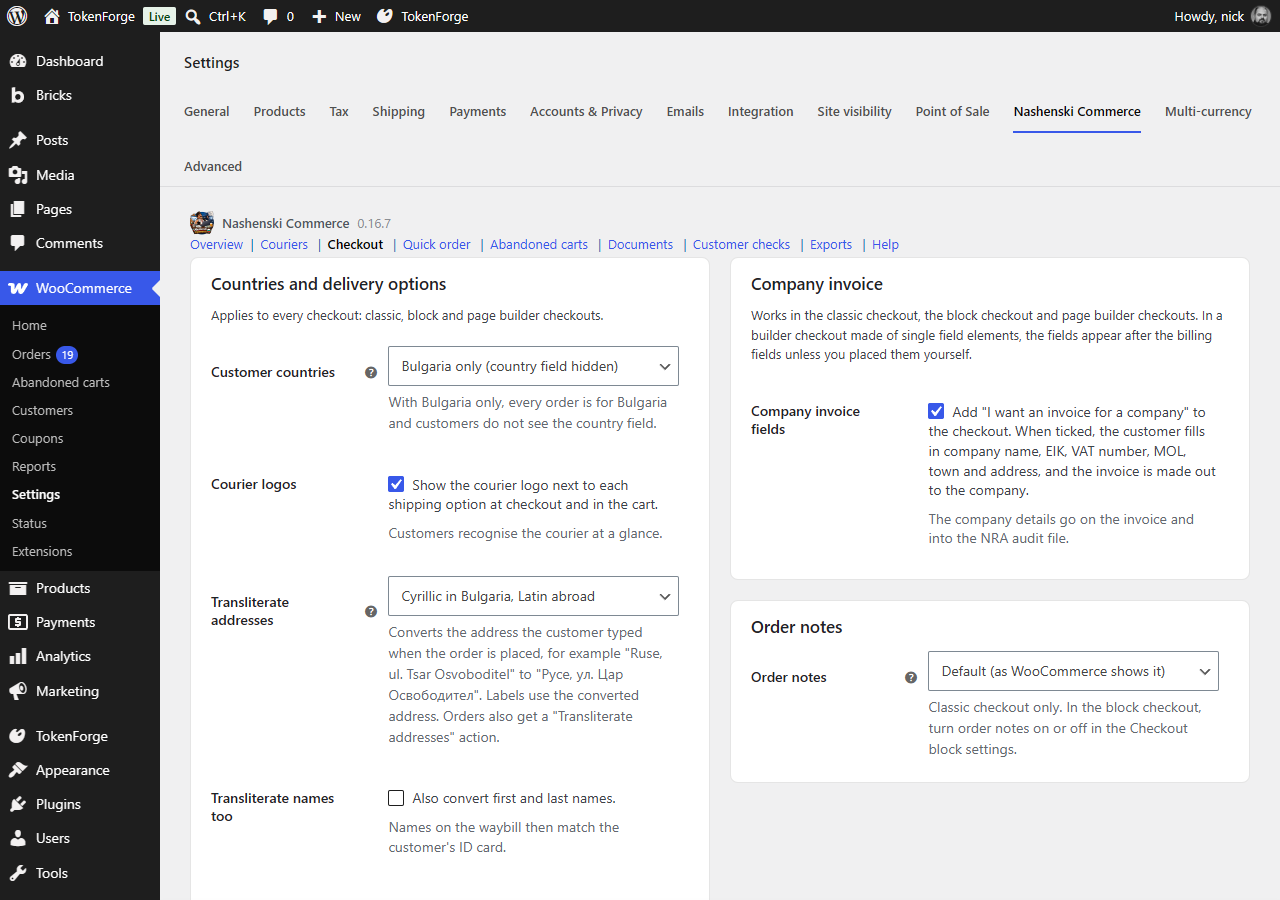
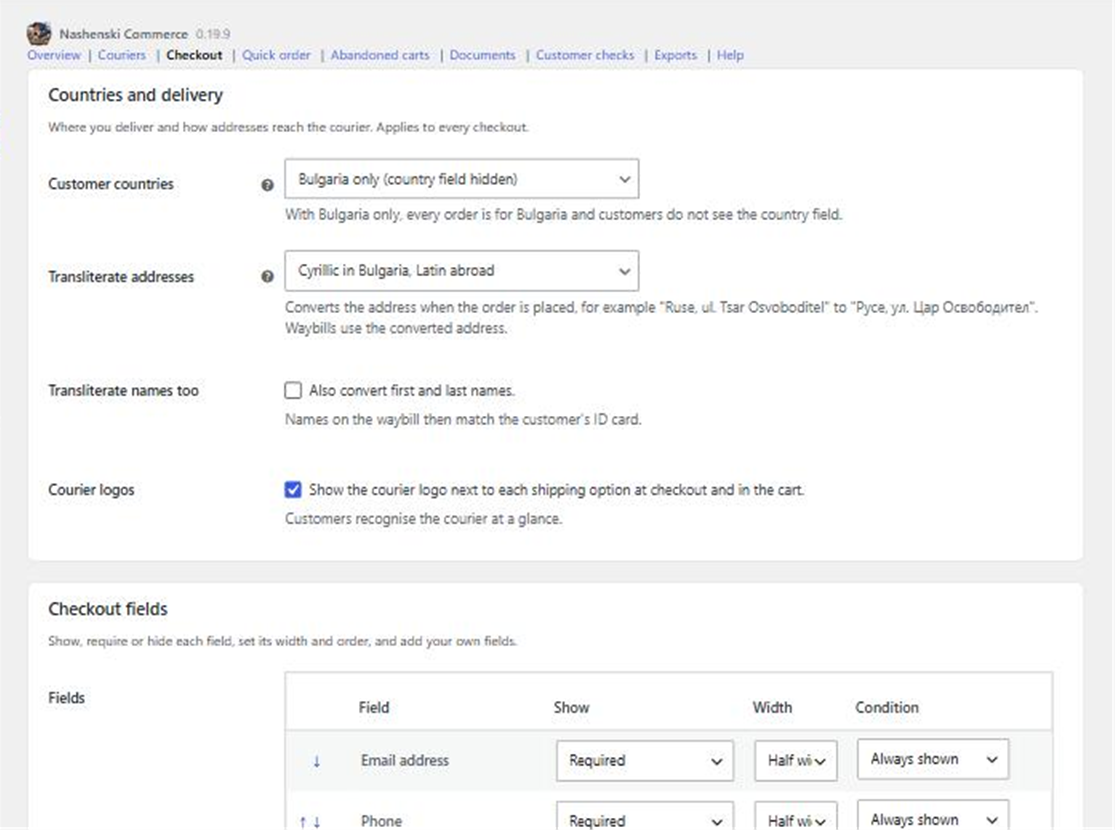
Manual: Bulgarian 113(9) text and screenshots at 0.19.9

diff --git a/manual/index.html b/manual/index.html
@@ -1985,9 +1985,9 @@ section{padding:20px 16px}
 				<td>text</td>
 				<td><span class="muted">empty</span></td>
 			</tr>
-			<tr data-search-en="nap_vat_113_9 company registered under article 113(9) of the bulgarian vat act enable for a company that is not registered for vat: invoices carry the note about article 113(9) and show no vat. works while woocommerce taxes are off.">
+			<tr data-search-en="nap_vat_113_9 company registered under article 113(9) of the bulgarian vat act enable for a company that is not registered for vat: invoices carry the note about article 113(9), and invoices, proformas and credit notes show no vat. works while woocommerce taxes are off.">
 				<td><code>nap_vat_113_9</code></td>
-				<td><strong>Company registered under Article 113(9) of the Bulgarian VAT Act</strong><div class="desc">Enable</div><div class="desc">For a company that is not registered for VAT: invoices carry the note about Article 113(9) and show no VAT. Works while WooCommerce taxes are off.</div></td>
+				<td><strong>Company registered under Article 113(9) of the Bulgarian VAT Act</strong><div class="desc">Enable</div><div class="desc">For a company that is not registered for VAT: invoices carry the note about Article 113(9), and invoices, proformas and credit notes show no VAT. Works while WooCommerce taxes are off.</div></td>
 				<td>yes or no</td>
 				<td><code>no</code></td>
 			</tr>
@@ -2334,9 +2334,9 @@ section{padding:20px 16px}
 				<td>текст</td>
 				<td><span class="muted">празно</span></td>
 			</tr>
-			<tr data-search-bg="nap_vat_113_9 фирмата е регистрирана по чл. 113, ал. 9 от зддс включване for a company that is not registered for vat: invoices carry the note about article 113(9) and show no vat. works while woocommerce taxes are off.">
+			<tr data-search-bg="nap_vat_113_9 фирмата е регистрирана по чл. 113, ал. 9 от зддс включване за фирма без регистрация по ддс: фактурите съдържат текста за чл. 113, ал. 9, а фактурите, проформите и кредитните известия не показват ддс. работи, докато данъците в woocommerce са изключени.">
 				<td><code>nap_vat_113_9</code></td>
-				<td><strong>Фирмата е регистрирана по чл. 113, ал. 9 от ЗДДС</strong><div class="desc">Включване</div><div class="desc">For a company that is not registered for VAT: invoices carry the note about Article 113(9) and show no VAT. Works while WooCommerce taxes are off.</div></td>
+				<td><strong>Фирмата е регистрирана по чл. 113, ал. 9 от ЗДДС</strong><div class="desc">Включване</div><div class="desc">За фирма без регистрация по ДДС: фактурите съдържат текста за чл. 113, ал. 9, а фактурите, проформите и кредитните известия не показват ДДС. Работи, докато данъците в WooCommerce са изключени.</div></td>
 				<td>да или не</td>
 				<td><code>no</code></td>
 			</tr>
@@ -4592,9 +4592,9 @@ section{padding:20px 16px}
 				<td>text</td>
 				<td><span class="muted">empty</span></td>
 			</tr>
-			<tr data-search-en="nap_vat_113_9 company registered under article 113(9) of the bulgarian vat act enable for a company that is not registered for vat: invoices carry the note about article 113(9) and show no vat. works while woocommerce taxes are off.">
+			<tr data-search-en="nap_vat_113_9 company registered under article 113(9) of the bulgarian vat act enable for a company that is not registered for vat: invoices carry the note about article 113(9), and invoices, proformas and credit notes show no vat. works while woocommerce taxes are off.">
 				<td><code>nap_vat_113_9</code></td>
-				<td><strong>Company registered under Article 113(9) of the Bulgarian VAT Act</strong><div class="desc">Enable</div><div class="desc">For a company that is not registered for VAT: invoices carry the note about Article 113(9) and show no VAT. Works while WooCommerce taxes are off.</div></td>
+				<td><strong>Company registered under Article 113(9) of the Bulgarian VAT Act</strong><div class="desc">Enable</div><div class="desc">For a company that is not registered for VAT: invoices carry the note about Article 113(9), and invoices, proformas and credit notes show no VAT. Works while WooCommerce taxes are off.</div></td>
 				<td>yes or no</td>
 				<td><code>no</code></td>
 			</tr>
@@ -4941,9 +4941,9 @@ section{padding:20px 16px}
 				<td>текст</td>
 				<td><span class="muted">празно</span></td>
 			</tr>
-			<tr data-search-bg="nap_vat_113_9 фирмата е регистрирана по чл. 113, ал. 9 от зддс включване for a company that is not registered for vat: invoices carry the note about article 113(9) and show no vat. works while woocommerce taxes are off.">
+			<tr data-search-bg="nap_vat_113_9 фирмата е регистрирана по чл. 113, ал. 9 от зддс включване за фирма без регистрация по ддс: фактурите съдържат текста за чл. 113, ал. 9, а фактурите, проформите и кредитните известия не показват ддс. работи, докато данъците в woocommerce са изключени.">
 				<td><code>nap_vat_113_9</code></td>
-				<td><strong>Фирмата е регистрирана по чл. 113, ал. 9 от ЗДДС</strong><div class="desc">Включване</div><div class="desc">For a company that is not registered for VAT: invoices carry the note about Article 113(9) and show no VAT. Works while WooCommerce taxes are off.</div></td>
+				<td><strong>Фирмата е регистрирана по чл. 113, ал. 9 от ЗДДС</strong><div class="desc">Включване</div><div class="desc">За фирма без регистрация по ДДС: фактурите съдържат текста за чл. 113, ал. 9, а фактурите, проформите и кредитните известия не показват ДДС. Работи, докато данъците в WooCommerce са изключени.</div></td>
 				<td>да или не</td>
 				<td><code>no</code></td>
 			</tr>
